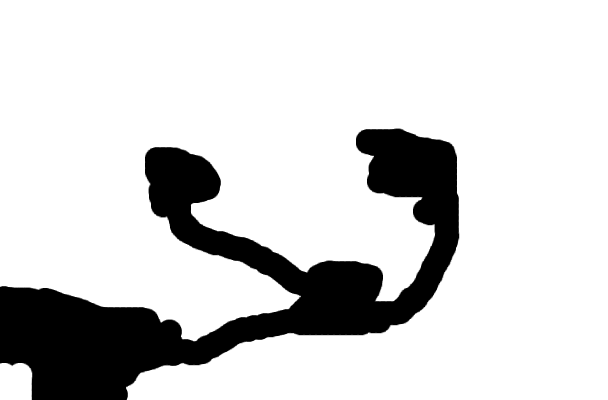
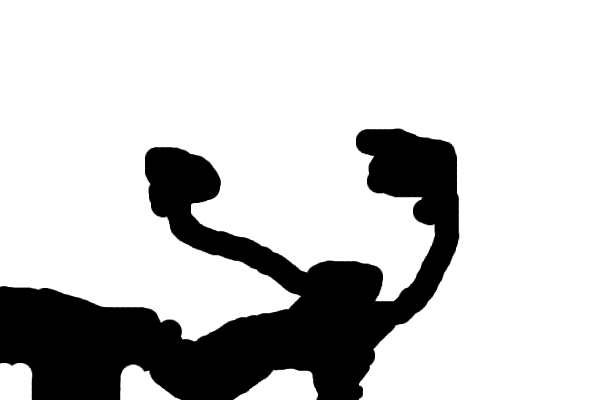
Fix collision problems - slopes and getting stuck

Changed region(s): [[0.1875, 0.81, 0.6562, 1.0]]

diff --git a/src/engine.py b/src/engine.py
@@ -44,6 +44,7 @@ class Entity(object):
         self.y = y
         self.width = width
         self.height = height
+        self.run_speed = 1
         self.momentum_y = 0
         self.air_timer = 0
         self.jump_buffer = 6
@@ -53,7 +54,7 @@ class Entity(object):
         self.frames_since_idle = 0
         self.flip = False
         self.img = None
-        self.mask = None
+        self.mask = pg.mask.Mask(self.rect.size, True)
 
     @property
     def rect(self):
@@ -62,16 +63,24 @@ class Entity(object):
 
     @property
     def adjusted_pos(self):
+        return int(self.x), int(self.y)
         x = self.x - (self.width // 2)
         y = self.y - (self.height // 2)
         return int(x), int(y)
+
+    @property
+    def inverse_adjusted_pos(self):
+        return int(-self.x), int(-self.y)
+        x = self.x - (self.width // 2)
+        y = self.y - (self.height // 2)
+        return int(-x), int(-y)
 
     def update(self, boundary_rects, collision_mask):
         self._animate()
 
         self.direction_x = self._get_direction()
         velocity = [0, 0]
-        velocity[0] += self.direction_x
+        velocity[0] += self.direction_x * self.run_speed
         velocity[1] += self.momentum_y
         self.momentum_y += 0.3
         if self.momentum_y > 4:
@@ -135,7 +144,6 @@ class Entity(object):
         img_id = animation_frames[self.id][self.action][self.animation_frame]
         # TODO: Make more efficient
         self.img = pg.transform.flip(sprite_images[self.id][img_id], self.flip, False)
-        self.mask = pg.mask.from_surface(self.img)
 
     def _get_direction(self):
         direction = 0
@@ -158,27 +166,51 @@ class Entity(object):
         # Horizontal
         self.x += velocity[0]
 
+        def stop_going_right():
+            overlap = self.mask.overlap(collision_mask, self.inverse_adjusted_pos)
+            while overlap is not None:
+                self.x -= 1
+                overlap = self.mask.overlap(collision_mask, self.inverse_adjusted_pos)
+
+        def stop_going_left():
+            overlap = self.mask.overlap(collision_mask, self.inverse_adjusted_pos)
+            while overlap is not None:
+                self.x += 1
+                overlap = self.mask.overlap(collision_mask, self.inverse_adjusted_pos)
+
+        def try_sliding_slope():
+            nx, ny = self.adjusted_pos
+            for i in range(1, 4):
+                temp_y = ny - i
+                if collision_mask.overlap(self.mask, (nx, temp_y)) is None:
+                    self.y -= i
+                    return True
+            for i in range(1, 4):
+                temp_y = ny + i
+                if collision_mask.overlap(self.mask, (nx, temp_y)) is None:
+                    self.y += i
+                    return True
+            return False
+
         hit_list = self.rect.collidelistall(boundary_rects)
         for tile_i in hit_list:
             if velocity[0] > 0:
-                self.x = boundary_rects[tile_i].left - self.width // 2
+                self.x = boundary_rects[tile_i].left - self.width  # // 2
                 collision_types["right"] = True
             elif velocity[0] < 0:
-                self.x = boundary_rects[tile_i].right + self.width // 2
+                self.x = boundary_rects[tile_i].right  # + self.width // 2
                 collision_types["left"] = True
 
-        overlap = collision_mask.overlap_area(self.mask, self.adjusted_pos)
+        overlap = self.mask.overlap(collision_mask, self.inverse_adjusted_pos)
         if overlap is not None:
             if velocity[0] > 0:
-                while overlap > 0:
-                    self.x -= 1
-                    overlap = collision_mask.overlap_area(self.mask, self.adjusted_pos)
-                collision_types["right"] = True
+                if not try_sliding_slope():
+                    stop_going_right()
+                    collision_types["right"] = True
             elif velocity[0] < 0:
-                while overlap > 0:
-                    self.x += 1
-                    overlap = collision_mask.overlap_area(self.mask, self.adjusted_pos)
-                collision_types["left"] = True
+                if not try_sliding_slope():
+                    stop_going_left()
+                    collision_types["left"] = True
 
         # Vertical
         self.y += velocity[1]
@@ -186,26 +218,77 @@ class Entity(object):
         hit_list = self.rect.collidelistall(boundary_rects)
         for tile_i in hit_list:
             if velocity[1] > 0:
-                self.y = boundary_rects[tile_i].top - self.height // 2
+                self.y = boundary_rects[tile_i].top - self.height  # // 2
                 collision_types["bottom"] = True
             elif velocity[1] < 0:
-                self.y = boundary_rects[tile_i].bottom + self.height // 2
+                self.y = boundary_rects[tile_i].bottom  # + self.height // 2
                 collision_types["top"] = True
 
-        overlap = collision_mask.overlap_area(self.mask, self.adjusted_pos)
-        if overlap > 0:
+        overlap = self.mask.overlap(collision_mask, self.inverse_adjusted_pos)
+        if overlap is not None:
             if velocity[1] > 0:
-                while overlap > 0:
-                    self.y -= 1
-                    overlap = collision_mask.overlap_area(self.mask, self.adjusted_pos)
+                modifier = 1
+                if overlap[1] < self.height // 2:
+                    modifier = -1
+                while overlap is not None:
+                    self.y -= 1 * modifier
+                    overlap = self.mask.overlap(
+                        collision_mask, self.inverse_adjusted_pos
+                    )
                 collision_types["bottom"] = True
             elif velocity[1] < 0:
-                while overlap > 0:
-                    self.y += 1
-                    overlap = collision_mask.overlap_area(self.mask, self.adjusted_pos)
+                modifier = 1
+                if overlap[1] > self.height // 2:
+                    modifier = -1
+                while overlap is not None:
+                    self.y += 1 * modifier
+                    overlap = self.mask.overlap(
+                        collision_mask, self.inverse_adjusted_pos
+                    )
                 collision_types["top"] = True
 
         return collision_types
+
+    def _calculate_x_collision_type(self, overlap_mask, vel_x):
+        types = {
+            "left_top_slope": False,
+            "left_wall": False,
+            "left_bottom_slope": False,
+            "right_top_slope": False,
+            "right_wall": False,
+            "right_bottom_slope": False,
+        }
+        if vel_x > 0:
+            # Find all overlapping points on the right side
+            size = overlap_mask.get_size()
+            for x in range(size[0] - vel_x, self.width):
+                for y in range(size[1]):
+                    bit = overlap_mask.get_at((x, y))
+                    if bit == 1:
+                        if y <= 2:
+                            types["right_top_slope"] = True
+                        elif y >= size[1] - 3:
+                            types["right_bottom_slope"] = True
+                        else:
+                            types["right_wall"] = True
+            if types["right_top_slope"] and types["right_bottom_slope"]:
+                types["right_wall"] = True
+        if vel_x < 0:
+            # Find all overlapping points on the left side
+            size = overlap_mask.get_size()
+            for x in range(0, abs(vel_x)):
+                for y in range(size[1]):
+                    bit = overlap_mask.get_at((x, y))
+                    if bit == 1:
+                        if y <= 2:
+                            types["left_top_slope"] = True
+                        elif y >= size[1] - 3:
+                            types["left_bottom_slope"] = True
+                        else:
+                            types["left_wall"] = True
+            if types["left_top_slope"] and types["left_bottom_slope"]:
+                types["left_wall"] = True
+        return types
 
 
 class SpriteSheet(object):

diff --git a/src/main.py b/src/main.py
@@ -18,7 +18,7 @@ display = pg.Surface(DISPLAY_SIZE)
 
 e.load_animation_data(ROOT_DIR / "assets/images/entities")
 
-player = e.Entity("player", x=50, y=300, width=16, height=16)
+player = e.Entity("player", x=90, y=350, width=16, height=16)
 map_boundary_rects = (
     pg.Rect(0, 0, DISPLAY_SIZE[0], 1),
     pg.Rect(0, 0, 1, DISPLAY_SIZE[1]),
@@ -70,7 +70,7 @@ while True:
     player.draw(display, offset)
 
     # if hasattr(player, "mask"):
-    # player.mask.to_surface(display, dest=(player.x, player.y))
+    #     player.mask.to_surface(display, dest=(player.x, player.y))
 
     # System
     for event in pg.event.get():
